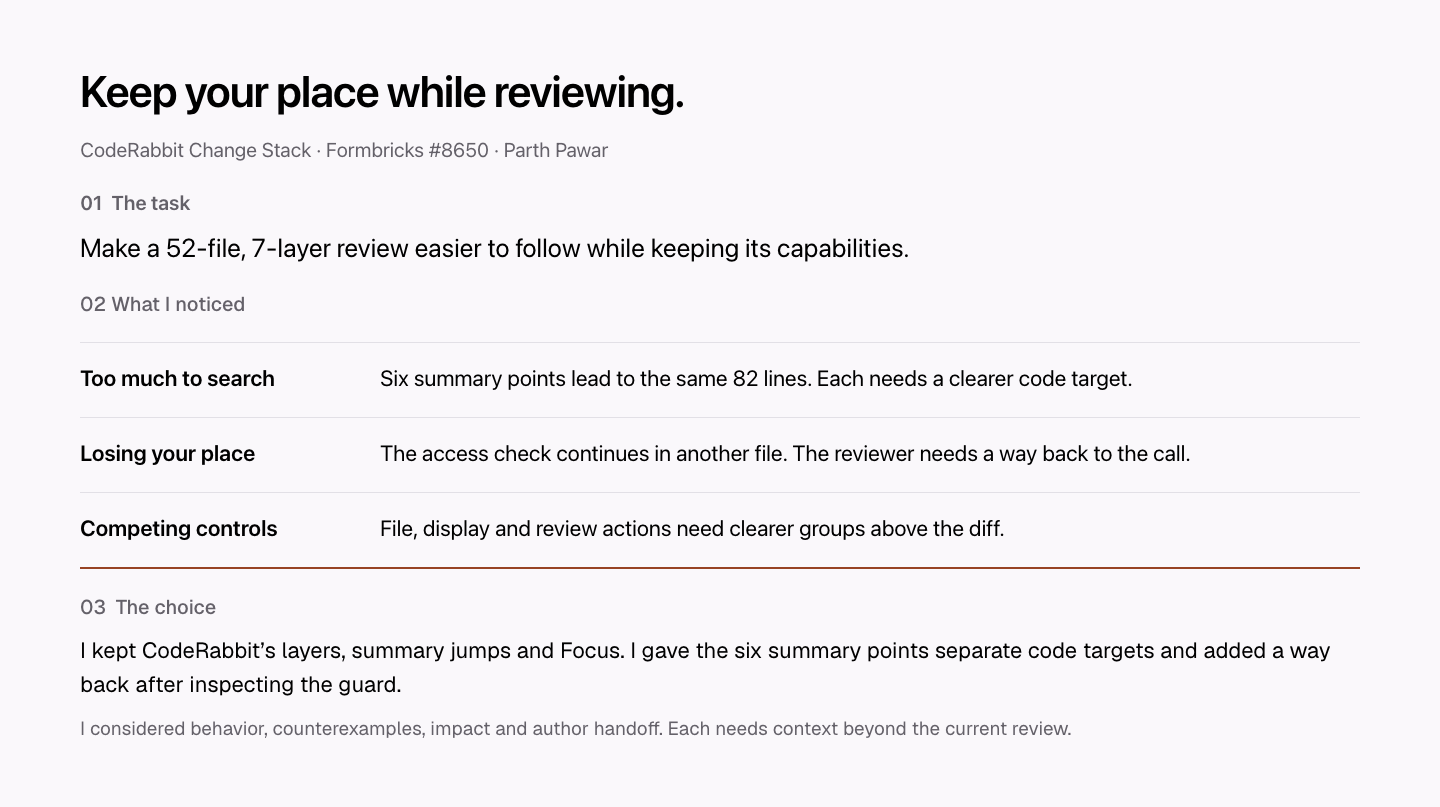
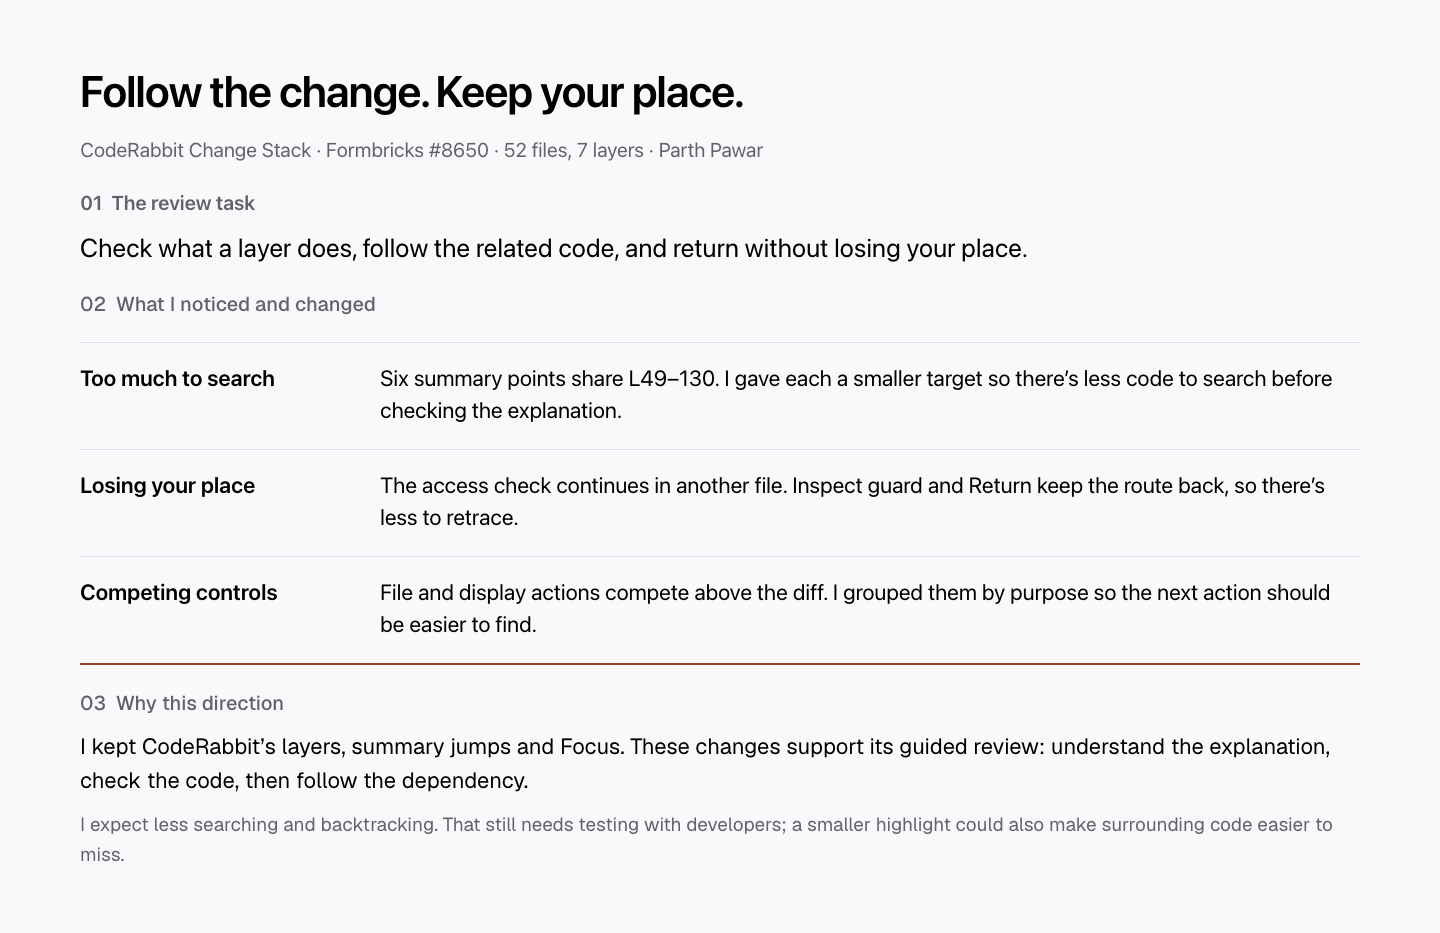
Connect review task and design changes to expected impact

diff --git a/dist/rationale.html b/dist/rationale.html
@@ -1,1 +1,1 @@
-<!doctype html><html lang="en"><head><meta charset="utf-8"><meta name="viewport" content="width=device-width,initial-scale=1"><title>Change Stack — Design rationale</title><link rel="stylesheet" href="styles.css?v=brand-20261019"><style>body{display:block;overflow:auto;height:auto;min-width:0;background:white}article{max-width:850px;margin:64px auto;padding:0 32px 48px}h1{white-space:normal;font-size:32px;line-height:1.2;letter-spacing:-.03em;font-weight:600}h2{font-size:18px;margin:28px 0 12px}p{margin:12px 0;line-height:1.6;color:#65616a}table{border-collapse:collapse;width:100%;font-size:14px;margin:20px 0}th{text-align:left;color:#211f24;font-weight:500;background:#faf8fb}td,th{padding:14px 16px;border-bottom:1px solid #e3e0e7;vertical-align:top}td:first-child{width:36%;font-weight:500;color:#211f24}nav{margin-bottom:24px}.byline{font-size:13px;color:#65616a;margin-top:16px}.small{font-size:12px}@media print{article{margin:0;padding:0}nav{display:none}h1{font-size:24px}body{font-size:12px}table{font-size:11px}td,th{padding:10px}h2{font-size:15px;margin:18px 0 8px}@page{size:A4;margin:18mm}}</style><link rel="stylesheet" href="brand.css?v=brand-20261019"></head><body><article><nav><a href="index.html">Prototype</a> · <a href="https://app.paper.design/file/01M5MWMDHE2E77VV689SCNHGV7/p-4-0/1-0">Paper design</a> · <a href="rationale.pdf">PDF</a></nav><h1>Checking the summary against the code</h1><p class="byline">CodeRabbit Change Stack · Formbricks #8650 · Parth Pawar</p><p>The brief asks for a clearer review screen without losing capability. I followed a summary into the assigned PR’s code, chose three priorities, and compared four directions. The final iteration improves that route using the existing layers and PR content.</p><table><thead><tr><th>What I noticed</th><th>What I changed</th></tr></thead><tbody><tr><td>Six summary points share L49–130. I still have to find the lines behind each point.</td><td>I gave each point a smaller target. The full wording and surrounding code stay available so I can check beyond the highlight.</td></tr><tr><td>The access check continues in another file.</td><td>Inspect guard opens both checks. Return brings me back to the caller’s selection and reading position. I mapped this route manually.</td></tr><tr><td>File and display actions sit across several controls.</td><td>I put file actions beside the filename and display settings above the code. Less-used tools sit in named menus, which adds a click.</td></tr></tbody></table><h2>Why I kept one code pane</h2><p>Showing the caller and guard together squeezed both at laptop width, so I chose Return. The matched comparison in Paper uses Unified. The original fits more code; this iteration gives files and summary links more room. Focus gives that space back.</p><h2>What stays available</h2><p>PR details, icons, layer numbers, J/K and Z Focus remain. Visiting a file leaves progress alone; Mark viewed and Undo change it. Full summary wording and secondary tools have named destinations. Secondary tools are labeled as previews; full functional parity is not implemented.</p><h2>What I would test</h2><p>I’d ask developers to explain the access check on both screens, then find something the summary might miss. I’d watch for wrong turns and missed branches. If smaller highlights lead people to overlook code, I’d change them.</p><p class="small">Seven of 52 diffs at commit 23cdac2; manually mapped links. The PR is merged; Submit is disabled. Semantic diffs and modified-file review are outside this sample. No developer testing. This work exceeded the expected 1–2 hours.</p></article></body></html>
+<!doctype html><html lang="en"><head><meta charset="utf-8"><meta name="viewport" content="width=device-width,initial-scale=1"><title>Change Stack — Design rationale</title><link rel="stylesheet" href="styles.css?v=brand-20261019"><style>body{display:block;overflow:auto;height:auto;min-width:0;background:white}article{max-width:850px;margin:64px auto;padding:0 32px 48px}h1{white-space:normal;font-size:32px;line-height:1.2;letter-spacing:-.03em;font-weight:600}h2{font-size:18px;margin:28px 0 12px}p{margin:12px 0;line-height:1.6;color:#65616a}table{border-collapse:collapse;width:100%;font-size:14px;margin:20px 0}th{text-align:left;color:#211f24;font-weight:500;background:#faf8fb}td,th{padding:14px 16px;border-bottom:1px solid #e3e0e7;vertical-align:top}td:first-child{width:36%;font-weight:500;color:#211f24}nav{margin-bottom:24px}.byline{font-size:13px;color:#65616a;margin-top:16px}.small{font-size:12px}@media print{article{margin:0;padding:0}nav{display:none}h1{font-size:24px}body{font-size:12px}table{font-size:11px}td,th{padding:10px}h2{font-size:15px;margin:18px 0 8px}@page{size:A4;margin:18mm}}</style><link rel="stylesheet" href="brand.css?v=brand-20261019"></head><body><article><nav><a href="index.html">Prototype</a> · <a href="https://app.paper.design/file/01M5MWMDHE2E77VV689SCNHGV7/p-4-0/1-0">Paper design</a> · <a href="rationale.pdf">PDF</a></nav><h1>Checking the summary against the code</h1><p class="byline">CodeRabbit Change Stack · Formbricks #8650 · Parth Pawar</p><p>Change Stack guides reviewers through related changes. I focused on one task in this 52-file, 7-layer PR: check what a layer does, follow the related code, and return without losing my place. I kept the existing layers, summary jumps and Focus.</p><table><thead><tr><th>What I noticed</th><th>Change and expected benefit</th></tr></thead><tbody><tr><td>Six summary points share L49–130. I still have to find the lines behind each point.</td><td>I gave each point a smaller target to reduce the code I need to search. Full wording and surrounding code stay available to check beyond the highlight.</td></tr><tr><td>The access check continues in another file.</td><td>Inspect guard opens both checks. Return restores the caller’s selection and position, so there should be less to retrace. I mapped this route manually.</td></tr><tr><td>File and display actions sit across several controls.</td><td>I grouped file actions beside the filename and display settings above the code to make the next action easier to find. Named menus add a click for less-used tools.</td></tr></tbody></table><h2>Why I kept one code pane</h2><p>Showing the caller and guard together squeezed both at laptop width, so I chose Return. The matched comparison in Paper uses Unified. The original fits more code; this iteration gives files and summary links more room. Focus gives that space back.</p><h2>What stays available</h2><p>PR details, icons, layer numbers, J/K and Z Focus remain. Visiting a file leaves progress alone; Mark viewed and Undo change it. Full summary wording and secondary tools have named destinations. Secondary tools are labeled as previews; full functional parity is not implemented.</p><h2>What I expect, and how I would check it</h2><p>I expect less searching and backtracking. I’d ask developers to explain the access check on both screens, then find a branch the summary misses. I’d watch for wrong turns and missed code. If smaller highlights narrow the review too much, I’d change them.</p><p class="small">Seven of 52 diffs at commit 23cdac2; manually mapped links. The PR is merged; Submit is disabled. Semantic diffs and modified-file review are outside this sample. No developer testing. This work exceeded the expected 1–2 hours.</p></article></body></html>

diff --git a/design/clean-submission/01-task-and-decisions.jsx b/design/clean-submission/01-task-and-decisions.jsx
@@ -2,31 +2,31 @@
     <div style={{ backgroundColor: '#FAF8FB', boxSizing: 'border-box', display: 'flex', flexDirection: 'column', fontSynthesis: 'none', gap: '24px', height: 'fit-content', MozOsxFontSmoothing: 'grayscale', overflow: 'clip', overflowWrap: 'anywhere', paddingBlock: '64px', paddingInline: '80px', WebkitFontSmoothing: 'antialiased', width: '1440px' }}>
       <div style={{ boxSizing: 'border-box', display: 'flex', flexDirection: 'column', gap: '18px', width: '1280px' }}>
         <div style={{ boxSizing: 'border-box', color: '#000000', fontFamily: 'system-ui, sans-serif', fontSize: '44px', fontWeight: 600, letterSpacing: '-0.025em', lineHeight: '52px' }}>
-          Keep your place while reviewing.
+          Follow the change. Keep your place.
         </div>
         <div style={{ boxSizing: 'border-box', color: '#65616A', fontFamily: 'system-ui, sans-serif', fontSize: '20px', lineHeight: '30px' }}>
-          CodeRabbit Change Stack · Formbricks #8650 · Parth Pawar
+          CodeRabbit Change Stack · Formbricks #8650 · 52 files, 7 layers · Parth Pawar
         </div>
       </div>
       <div style={{ boxSizing: 'border-box', display: 'flex', gap: '12px' }}>
         <div style={{ boxSizing: 'border-box', display: 'flex', flexDirection: 'column', flexShrink: '0', gap: '12px', width: '1280px' }}>
           <div style={{ boxSizing: 'border-box', color: '#65616A', fontFamily: 'system-ui, sans-serif', fontSize: '20px', fontWeight: 600, lineHeight: '28px', whiteSpace: 'pre-wrap' }}>
-            01{'  '}The task
+            01{'  '}The review task
           </div>
           <div style={{ boxSizing: 'border-box', color: '#000000', fontFamily: 'system-ui, sans-serif', fontSize: '26px', lineHeight: '38px', width: '1260px' }}>
-            Make a 52-file, 7-layer review easier to follow while keeping its capabilities.
+            Check what a layer does, follow the related code, and return without losing your place.
           </div>
         </div>
       </div>
-      <div style={{ boxSizing: 'border-box', color: '#65616A', fontFamily: '"Geist", system-ui, sans-serif', fontSize: '20px', fontWeight: 500, lineHeight: '28px' }}>
-        02 What I noticed
+      <div style={{ boxSizing: 'border-box', color: '#65616A', fontFamily: '"Geist", system-ui, sans-serif', fontSize: '20px', fontWeight: 500, lineHeight: '28px', whiteSpace: 'pre-wrap' }}>
+        02{'  '}What I noticed and changed
       </div>
       <div style={{ alignItems: 'start', borderTopColor: '#E3E0E7', borderTopStyle: 'solid', borderTopWidth: '1px', boxSizing: 'border-box', display: 'flex', gap: '20px', paddingTop: '18px' }}>
         <div style={{ boxSizing: 'border-box', color: '#000000', flexShrink: '0', fontFamily: 'system-ui, sans-serif', fontSize: '22px', fontWeight: 600, lineHeight: '32px', width: '280px' }}>
           Too much to search
         </div>
         <div style={{ boxSizing: 'border-box', color: '#000000', flexShrink: '0', fontFamily: 'system-ui, sans-serif', fontSize: '22px', lineHeight: '32px', width: '970px' }}>
-          Six summary points lead to the same 82 lines. Each needs a clearer code target.
+          Six summary points share L49–130. I gave each a smaller target so there’s less code to search before checking the explanation.
         </div>
       </div>
       <div style={{ alignItems: 'start', borderTopColor: '#E3E0E7', borderTopStyle: 'solid', borderTopWidth: '1px', boxSizing: 'border-box', display: 'flex', gap: '20px', paddingTop: '18px' }}>
@@ -34,7 +34,7 @@
           Losing your place
         </div>
         <div style={{ boxSizing: 'border-box', color: '#000000', flexShrink: '0', fontFamily: 'system-ui, sans-serif', fontSize: '22px', lineHeight: '32px', width: '970px' }}>
-          The access check continues in another file. The reviewer needs a way back to the call.
+          The access check continues in another file. Inspect guard and Return keep the route back, so there’s less to retrace.
         </div>
       </div>
       <div style={{ alignItems: 'start', borderTopColor: '#E3E0E7', borderTopStyle: 'solid', borderTopWidth: '1px', boxSizing: 'border-box', display: 'flex', gap: '20px', paddingTop: '18px' }}>
@@ -42,18 +42,18 @@
           Competing controls
         </div>
         <div style={{ boxSizing: 'border-box', color: '#000000', flexShrink: '0', fontFamily: 'system-ui, sans-serif', fontSize: '22px', lineHeight: '32px', width: '970px' }}>
-          File, display and review actions need clearer groups above the diff.
+          File and display actions compete above the diff. I grouped them by purpose so the next action should be easier to find.
         </div>
       </div>
       <div style={{ borderTopColor: '#A33C17', borderTopStyle: 'solid', borderTopWidth: '2px', boxSizing: 'border-box', display: 'flex', flexDirection: 'column', gap: '12px', paddingTop: '24px' }}>
         <div style={{ boxSizing: 'border-box', color: '#65616A', fontFamily: '"Geist", system-ui, sans-serif', fontSize: '20px', fontWeight: 500, lineHeight: '28px', whiteSpace: 'pre-wrap' }}>
-          03{'  '}The choice
+          03{'  '}Why this direction
         </div>
         <div style={{ boxSizing: 'border-box', color: '#000000', fontFamily: '"Geist", system-ui, sans-serif', fontSize: '22px', lineHeight: '34px', width: '1260px' }}>
-          I kept CodeRabbit’s layers, summary jumps and Focus. I gave the six summary points separate code targets and added a way back after inspecting the guard.
+          I kept CodeRabbit’s layers, summary jumps and Focus. These changes support its guided review: understand the explanation, check the code, then follow the dependency.
         </div>
         <div style={{ boxSizing: 'border-box', color: '#65616A', fontFamily: '"Geist", system-ui, sans-serif', fontSize: '19px', lineHeight: '30px', width: '1260px' }}>
-          I considered behavior, counterexamples, impact and author handoff. Each needs context beyond the current review.
+          I expect less searching and backtracking. That still needs testing with developers; a smaller highlight could also make surrounding code easier to miss.
         </div>
       </div>
     </div>

diff --git a/docs/clean-paper-submission.md b/docs/clean-paper-submission.md
@@ -11,10 +11,12 @@ The file has four pages:
 
 The six redundant pages were removed after their useful content was consolidated. Evaluator questions remain removed. The final review and guard screens retain their content and dimensions. The Focus example retains its code and controls; its frame now fits the excerpt without the empty area below it.
 
-The submission remains prototype, Paper and one-page rationale. The public website opens directly into the prototype. The rationale and prototype behavior did not change in this organizational pass.
+The submission remains prototype, Paper and one-page rationale. The public website opens directly into the prototype. The prototype behavior stays the same. The rationale now connects each observation to its change and expected benefit.
 
 Current exports are in design/clean-submission. The manifest maps 10 artboards, including separate screen captions, to four Paper pages. Earlier exports remain recoverable in Git history.
 
 The latest edit shortens the opening and captions, removes repeated annotation wording, aligns the comparison margins, and places the interaction examples in a vertical reading order. The scope note remains beside the proposed test. Detailed process history, including the exceeded timebox, remains in the repository history; no user testing or measured improvement is claimed.
 
 The comparison uses orange outlined targets, arrowheads and numbered markers adapted from the earlier diagnosis file. The main editable screen stays free of presentation callouts.
+
+The opening now frames a concrete review task: check the explanation, follow related code and return without losing position. Each observation names the existing change and its intended benefit. Less searching and backtracking remain hypotheses, with missed surrounding code as a risk to test. No pages or product features were added.

diff --git a/docs/verification.md b/docs/verification.md
@@ -1,3 +1,7 @@
+# Review task and expected impact · October 23
+
+Updated the first Paper page to connect the review task, three observations, the existing design changes and their expected benefits. Kept all four pages and the prototype behavior. Regenerated the opening PNG/JSX export and the PDF/HTML rationale from the shared copy. Visually checked the opening and one-page PDF for spacing, alignment, contrast and clipping. Expected improvements remain hypotheses; developer testing and the risk of missing code beyond a highlight are explicit.
+
 # Four-page reviewer pass · October 23
 
 Read all ten boards across the four Paper pages, including all native review states and captions. Corrected the After context pointer to enclose PR identity, matching its caption and the Before target. Tightened the file-action caption to describe the highlighted controls. Clarified the transition from Require workspace access to the guard and back to access.ts for Focus.
